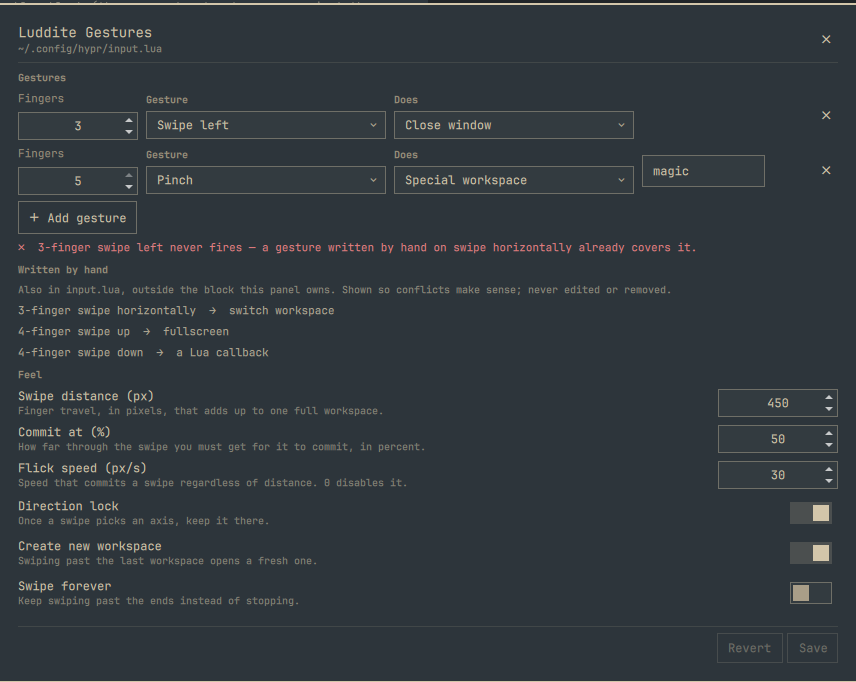
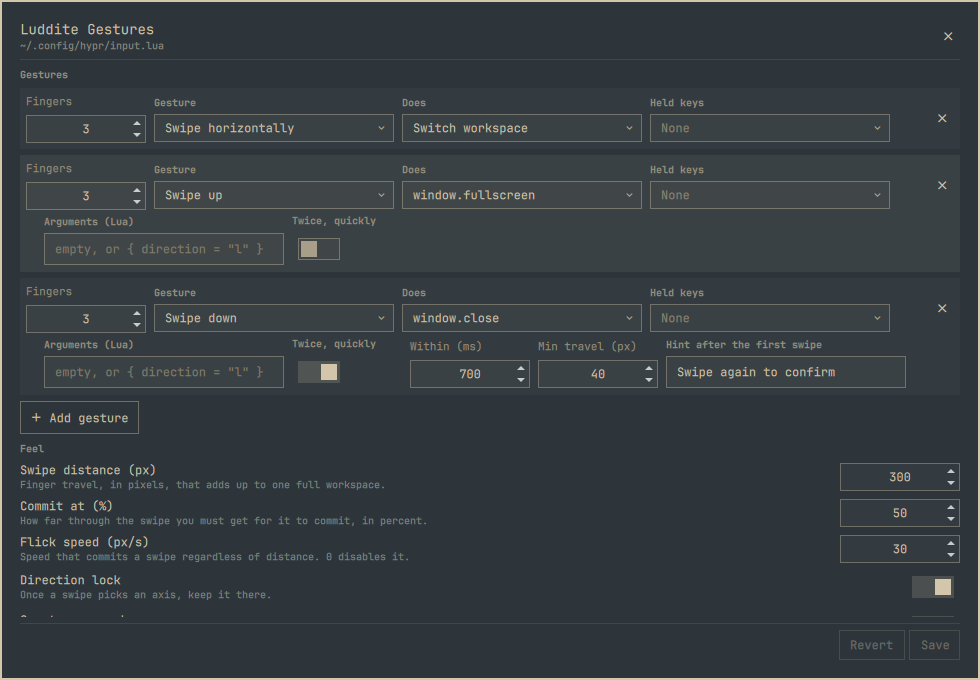
Add CLAUDE.md, and a screenshot that shows what the panel became (#7)
The repo had no agent context file at all. Everything a contributor -- human or
otherwise -- needs to not break this was either in commit messages or in nobody's
head, and the two things that make the plugin trustworthy are exactly the two
things easiest to undo by accident.

CLAUDE.md writes down:

  * The discipline. Every fact about Hyprland here was measured against a running
    compositor, not read from documentation, and the comment next to each value
    carries the error message it came from. Including how to measure the shadow
    lattice without poisoning it -- a probe that registers stays live and shadows
    the next one, which is how a contaminated run once reported that swipe
    shadows pinchin.

  * What the panel owns. One fenced block; everything outside it is read, shown
    and never rewritten.

  * How reading works, and why the helper opens with `local luddite = luddite`.

  * The hard rules, including the ones that came from getting it wrong: a no-op
    save must be byte-identical, never write Lua you have not compiled, and do
    not be stricter than the parser.

  * The two QML traps. A Repeater fed a JS array rebuilds every delegate when the
    array is reassigned, and assigning a QML property destroys the binding on it.
    Both are invisible -- QML reports nothing, and the symptom looks like
    something else -- so both have source-level tests, and now an explanation of
    why those tests exist.
[…]

diff --git a/CLAUDE.md b/CLAUDE.md
@@ -1,0 +1,208 @@
+# Luddite Gestures — working notes
+
+A Quickshell panel plugin for Omarchy that edits Hyprland touchpad gestures in
+`~/.config/hypr/input.lua`, and warns which of your swipes will never fire.
+
+Read `README.md` first for what it does. This file is about how to change it
+without breaking the two things that make it trustworthy: it tells the truth
+about Hyprland, and it does not touch config it does not own.
+
+## The discipline: measure, never quote
+
+**Every fact about Hyprland in this repo was measured against a running
+compositor, not read from documentation.** If you are adding or changing one,
+measure it the same way and say so in the comment.
+
+```bash
+hyprctl eval 'hl.gesture({ fingers = 5, direction = "pinch", action = "x" })'
+#   -> hl.gesture: unknown action "x"          the action set is closed
+hyprctl repl 'return type(hl.dsp.window.close())'
+#   -> userdata                                the dispatcher exists
+```
+
+- `Schema.js` `DIRECTIONS` / `ACTIONS` came from feeding candidates to the
+  parser until it complained.
+- `COVERAGE` is a 10×10 shadow lattice, pinned in `test/run.js`.
+- `DISPATCHERS` was walked out of the live compositor with `pairs(hl.dsp)`.
+- Field types (`scale` is a float bounded 0.1–10, `zoom_level` is a *string*)
+  came from the parser's own error messages.
+
+**Measuring the lattice needs `hyprctl reload` between every single cell.** A
+probe that registers successfully stays live and shadows the next one, which
+turns a whole row into confident nonsense. This was got wrong once: a
+contaminated run reported that `swipe` shadows `pinchin`. It does not.
+
+Where something could not be pinned down, the feature is not offered. The
+double-swipe guard refuses `fullscreen` and `special` because dispatching
+`hl.dsp.window.fullscreen("0")` and `("1")` both produced plain fullscreen, so
+the argument looks ignored. Generating a call whose behaviour cannot be
+predicted into someone's window manager config is not worth a checkbox.
+
+## What the panel owns
+
+One fenced block in `input.lua`, and nothing else:
+
+```lua
+-- >>> luddite-gestures managed block >>>
+-- <<< luddite-gestures managed block <<<
+```
+
+Everything outside the fences is read for context, shown under **Written by
+hand**, counted for conflicts, and never rewritten. An action that is a Lua
+callback someone else wrote cannot survive three dropdowns, and flattening one
+into an approximation would be the worst thing this could do.
+
+The one exception, and it is signposted in the UI: a callback gesture found
+*inside* the fences cannot be kept, because saving rewrites the block whole. It
+gets its own warning rather than being listed among the gestures the panel
+leaves alone.
+
+## Architecture
+
+| File | Role |
+|---|---|
+| `Schema.js` | What Hyprland accepts. Directions, coverage, actions, dispatchers, field specs, validation helpers. No I/O |
+| `LuaGestures.js` | Renders the block, splices it into the file, parses `read.lua` output, finds conflicts and field errors. No I/O |
+| `read.lua` | Runs a config segment against recording stubs and prints what it set |
+| `Panel.qml` | State, the three-segment read, save, the UI |
+| `GestureRow.qml` | One gesture, on two lines |
+| `Service.qml` | Installs/removes the launcher desktop entry |
+
+`Schema.js` and `LuaGestures.js` are `.pragma library` — pure JS, no QML types —
+which is what lets `test/run.js` load them in node by stripping one line.
+
+### Reading is Lua running Lua
+
+`read.lua` does not parse. It executes the chunk against stubs that only record,
+so there is no second grammar to keep in sync with Hyprland's, and a config
+referencing helpers this plugin has never heard of still reads. Undefined
+globals return an inert table that answers to being indexed and called.
+
+Chunks load in text mode only (`load(src, name, "t")`), never as bytecode.
+
+The file is read in **three segments** — before the block, the block, after it —
+so the block's position, and therefore which gestures Hyprland registers first,
+survives the round trip. Three processes run concurrently and **nothing is
+published until all three have answered**. Publishing early meant whichever
+reader finished last silently won; that was a real bug.
+
+### Gestures the panel writes Lua for
+
+Two kinds are not a plain `hl.gesture` call: a **dispatcher** gesture (runs what
+a keybind runs) and a **guarded** one (`double`, fires on the second swipe).
+Both are Lua callbacks, so the panel writes the callback rather than leaving you
+to hand-write one it would then refuse to manage.
+
+The trick that keeps them readable both ways is the helper's first line:
+
+```lua
+local luddite = luddite
+if not luddite then ... end
+```
+
+Under Hyprland the global is nil, so the helper defines itself and registers
+real gestures. Under `read.lua` it is a recorder, so the definition is skipped
+and every `luddite.run(...)` call reports its arguments as data — which is how a
+guarded or dispatcher gesture comes back into the dropdowns instead of reading
+as an opaque callback.
+
+**`read.lua` still records the old `luddite.double` name.** A block written by an
+earlier version and not yet re-saved has to keep reading, or upgrading would
+silently empty someone's gesture list.
+
+The helper never names a dispatcher itself: it calls `s.run()`, a thunk the
+renderer wrote. One place a wrong call can come from, and it is the one the
+panel controls.
+
+## Hard rules
+
+1. **Nothing outside the fences is ever rewritten.** `applyBlock` splices; it
+   does not reformat.
+2. **A no-op save must be byte-identical.** Reading a config and saving it
+   without edits may not change one character. Test it against a real file.
+3. **Never write Lua you have not compiled.** Argument text for a dispatcher is
+   raw Lua that lands in `input.lua`; one typo there is a syntax error in the
+   *whole file*, which would take the rest of the config down and leave the panel
+   with nothing to show but an unreadable block — including the gesture you need
+   to fix. `save()` runs `read.lua --check` and refuses a body that will not
+   parse. `--check` compiles and runs nothing; keep it that way, or every Save
+   press executes the user's config.
+4. **Do not be stricter than the parser.** A `special` gesture with no workspace
+   name is accepted by Hyprland, so the panel accepts it too. Refusing to save
+   something the compositor takes is a bug.
+5. **Canonicalise directions on read, write the long form.** Hyprland takes `l`,
+   `horiz`, `VERT`, `zoomin` and any casing. Treating those as unknown blocked
+   saving and hid every conflict they were in.
+6. **Explicit beats defaulted** when it has to round-trip. A hand-written
+   `mode = "fullscreen"` must survive unchanged, which is why no `MODES` option
+   has an empty value.
+7. **Carry what you do not edit.** `disable_inhibit` has no control; it is read
+   and written back so a hand-written one is not lost on save.
+8. **There is no live preview, on purpose.** Hyprland offers no way to
+   unregister a gesture, so evaluating a draft would stack it on top of the real
+   ones instead of replacing them, and the preview would lie.
+
+## Two QML traps that cost real time
+
+Both are invisible: QML reports nothing, and the symptom looks like something
+else entirely. Both are guarded by source-level checks in `test/run.js`, because
+the failure lives where no pure-JS test can reach.
+
+**A Repeater fed a JS array rebuilds every delegate when that array is
+reassigned.** Measured: three rows in, three destroyed and three rebuilt per
+edit. Since `editGesture` reassigns on every keystroke, the control being used
+was destroyed inside its own signal handler, taking its open popup with it — the
+whole gesture table fought back. The model is `root.gestures.length` and the
+delegate reads `root.gestures[index]`. Do not change that back.
+
+**Assigning a QML property destroys the binding on it.** `Dropdown` assigns
+`value`, `MultiSelect` assigns `values`, `TextField` assigns `text`. Left alone,
+a control shows the last edit forever and goes deaf to Revert and to changes made
+in the file. Every self-assigning control re-arms with `Qt.binding()` straight
+after telling the panel what changed.
+
+Related: a delegate must not declare a property named `index`. A Repeater injects
+one, the two collide silently, and every row reports 0 — so every edit lands on
+the first gesture. Hence `rowIndex`.
+
+## Testing
+
+```bash
+node test/run.js          # 154 checks; no compositor needed
+omarchy plugin validate . # what the shell enforces at install
+```
+
+`test/run.js` is deliberately three kinds of test in one file:
+
+- **Pure JS** against the two libraries.
+- **Source checks** on the `.qml` files, for the failures QML will not report.
+- **Integration** through real `lua`, skipped with a note when it is absent.
+
+When adding a feature that generates Lua, the load-bearing test is the round
+trip: render it, run it through `read.lua`, render again, assert byte-identical.
+And test the failure path — `--check` has a test that it compiles *without
+executing a line*, because a check that cannot fail proves nothing.
+
+## Working on it
+
+Saving a file under `~/.config/omarchy/plugins/` hot-reloads plugin code but does
+**not** re-instantiate a panel the shell has already created. A layout change
+looks like it did nothing until `omarchy restart shell`.
+
+Panel plugins load lazily — `shell.qml` only activates the Loader when the panel
+is opened — so `luddite-gestures` missing from `quickshell ipc show` is normal
+until you open it once. It is not a regression.
+
+The shell's own components live in `/usr/share/omarchy/shell/{Commons,Ui}`. Read
+them rather than guessing at their API; `qmllint -I <dir-containing-qs>` will
+resolve them if you symlink the shell dir to `qs`.
+
+## Style
+
+Match the surrounding code. Comments explain *why*, especially where something
+looks odd but is deliberate — the count-based Repeater model, the `Qt.binding()`
+re-arms, `local luddite = luddite`, the `--check` pass before a write. Every one
+of those exists because the obvious way was tried and was wrong.
+
+Keep the measured provenance in the comment next to the value. A number without
+the error message it came from is a number nobody can re-derive.

diff --git a/README.md b/README.md
@@ -157,6 +157,11 @@ node test/run.js          # pure-JS tests for the renderer, parser and conflicts
 omarchy plugin validate . # the same checks the shell enforces at install
 ```
 
+[`CLAUDE.md`](CLAUDE.md) is the working-notes file: how facts about Hyprland get
+measured rather than quoted, what the panel is and is not allowed to touch, and
+the two QML traps that cost real time. Read it before changing how the block is
+written.
+
 Saving a file under `~/.config/omarchy/plugins/` hot-reloads plugin code, but it
 does not re-instantiate a panel the shell has already created. A layout change
 looks like it did nothing until `omarchy restart shell`, which is a good way to
